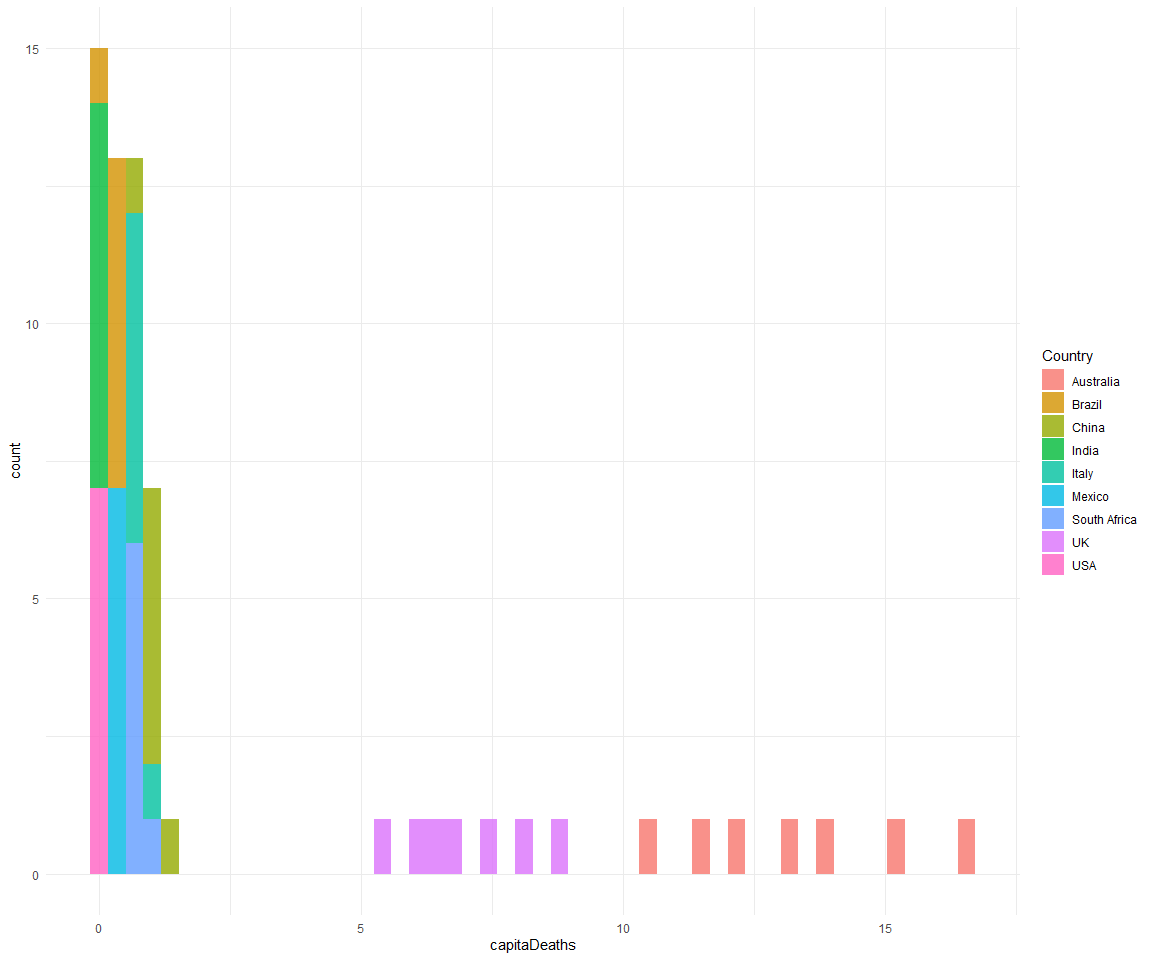
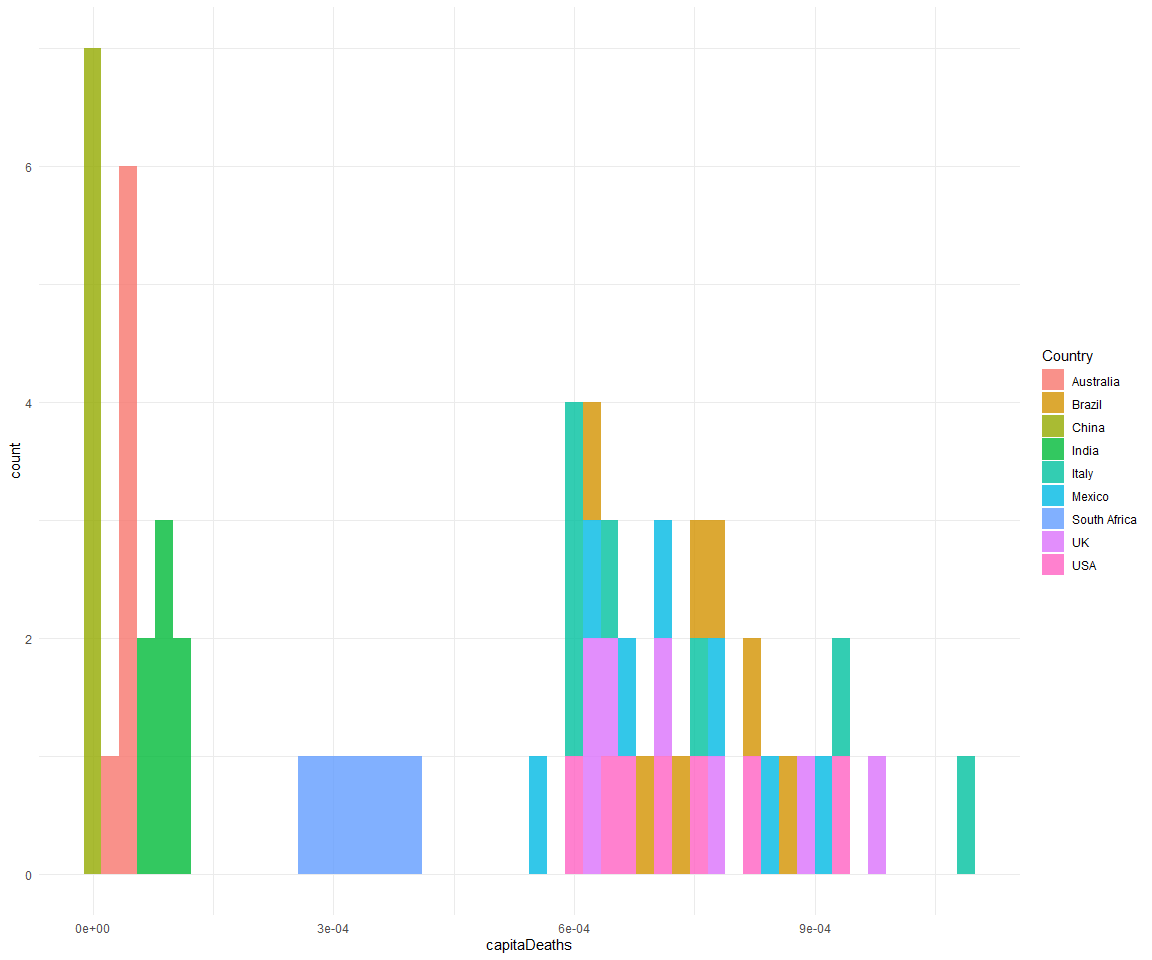
Fixed numbers!

diff --git a/R/README.md b/R/README.md
@@ -256,7 +256,15 @@ coun_res <- GET("https://corona.lmao.ninja/v2/historical?lastdays=100") # read i
 
 coun_data = fromJSON(rawToChar(coun_res$content)) # Convert json to tabular data
 
-countrylist <- c("USA", "South Africa", "Mexico", "UK", "Brazil", "Italy", "India", "China","Australia") # Countries to analyze
+countrylist <- c("USA", 
+                 "South Africa",
+                 "Mexico", 
+                 "UK", 
+                 "Brazil",
+                 "Italy",
+                 "India",
+                 "China",
+                 "Australia") # Countries to analyze
 
 # Index of countries
 index <- coun_data %>%
@@ -269,50 +277,70 @@ captdate <- c(paste(c(1:12), rep("1/20", times = 12), sep = "/"), # first day of
            paste(c(1:12), rep("15/20", times = 12), sep = "/")) %>%  # 15th day of month
   mdy()
 
+countries <- coun_data %>% 
+  filter(country %in% countrylist) %>%
+  pull(country)
 
+province <- coun_data %>% 
+  filter(country %in% countrylist) %>%
+  pull(province)
 
 cases <- coun_data$timeline$cases %>% 
   slice(index) %>% 
   gather() %>% 
-  rename(Date = key, Cases = value) %>% 
+  rename(Date = key,
+         Cases = value) %>% 
   mutate(Date = mdy(Date)) %>% 
   filter(Date %in% captdate)
+
+cases <- cases %>% 
+  mutate(Country = rep(countries, times = (nrow(cases)/length(index)))) %>% 
+  mutate(Province =  rep(province, times = (nrow(cases)/length(index))))
   
 
 deaths <- coun_data$timeline$deaths  %>% 
   slice(index) %>% 
   gather() %>% 
-  rename(Date = key, Deaths = value) %>% 
+  rename(Date = key,
+         Deaths = value) %>% 
   mutate(Date = mdy(Date)) %>% 
   filter(Date %in% captdate)
+
+deaths <- deaths %>% 
+  mutate(Country = rep(countries, times = (nrow(deaths)/length(index)))) %>% 
+  mutate(Country = rep(countries, times = (nrow(deaths)/length(index)))) %>% 
+  mutate(Province =  rep(province, times = (nrow(deaths)/length(index))))
+  
 
 recovered <- coun_data$timeline$recovered  %>% 
   slice(index) %>% 
   gather() %>% 
-  rename(Date = key, Recovered = value) %>% 
+  rename(Date = key,
+         Recovered = value) %>% 
   mutate(Date = mdy(Date)) %>% 
   filter(Date %in% captdate)
 
+recovered <- recovered %>% 
+  mutate(Country = rep(countries, times = (nrow(recovered)/length(index))))  %>% 
+  mutate(Country = rep(countries, times = (nrow(recovered)/length(index)))) %>% 
+  mutate(Province =  rep(province, times = (nrow(recovered)/length(index))))
+  
 total <- cases %>% 
-  left_join(deaths, by = "Date") %>% 
-  left_join(recovered, by = "Date")
+  left_join(deaths) %>% 
+  left_join(recovered)
 
 
 rm(cases, deaths, recovered)
 
-total <- total %>% 
-  mutate(Country = rep(coun_data %>%
-                         slice(index) %>% 
-                         pull(country), times = nrow(total)/length(index)),
-         Province = rep(coun_data %>%
-                          slice(index) %>% 
-                          pull(province), times = nrow(total)/length(index)))
+
+  
 
 # Collapse to obtain the total of Cases, Deaths and Recovered by Country
 
 total <- total %>% 
   group_by(Country, Date) %>% 
-  summarise(Cases = sum(Cases), Deaths = sum(Deaths), Recovered = sum(Recovered))
+  summarise(Cases = sum(Cases), Deaths = sum(Deaths), Recovered = sum(Recovered)) %>% 
+  ungroup()
 ```
 
 Read in world population data and estimate a per capita per selected
@@ -367,12 +395,12 @@ Summary stats
 
 ``` r
 sum_total <- total %>% 
-                ungroup(Date) %>% 
+                group_by(Country) %>% 
                 summarise(across(c(Cases, Deaths, Recovered), mean)) %>% 
                 rename_at(vars(-Country),function(x) paste0(x,"_mean")) %>% 
                 left_join(
                 total %>% 
-                  ungroup(Date) %>% 
+                  group_by(Country) %>% 
                   summarise(across(c(Cases, Deaths, Recovered), sd)) %>% 
                   rename_at(vars(-Country),function(x) paste0(x,"_sd"))
                 ) %>% 
@@ -384,15 +412,15 @@ sum_total
     ## # A tibble: 9 x 7
     ##   Country  Cases_mean Cases_sd Deaths_mean Deaths_sd Recovered_mean Recovered_sd
     ##   <chr>         <dbl>    <dbl>       <dbl>     <dbl>          <dbl>        <dbl>
-    ## 1 Austral~    1.28e10  3.61e 9  338284901.    5.29e7      84396993.     2377754.
-    ## 2 Brazil      1.60e 9  4.51e 8   42285613.    6.61e6   16751823734.  2803108527.
-    ## 3 China       5.29e10  1.49e10 1395425215.    2.18e8     290431901.     3543067.
-    ## 4 India       1.60e 9  4.51e 8   42285613.    6.61e6   23995743594.  6709286775.
-    ## 5 Italy       1.60e 9  4.51e 8   42285613.    6.61e6    1599651202.  1194942912.
-    ## 6 Mexico      1.60e 9  4.51e 8   42285613.    6.61e6    2504459074.   415915109.
-    ## 7 South A~    1.60e 9  4.51e 8   42285613.    6.61e6    2242978718.   223814094.
-    ## 8 UK          1.76e10  4.96e 9  465141738.    7.27e7       9982430.     2303514.
-    ## 9 USA         1.60e 9  4.51e 8   42285613.    6.61e6   10363627622.  5492666454.
+    ## 1 Austral~     27513      457.        893.     30.9          25088.         707.
+    ## 2 Brazil     5594909.  894725.     158964.  17083.         4979734.      833267.
+    ## 3 China        91783.    1519.       4742.      6.94         86335.        1053.
+    ## 4 India      7898756. 1757443.     118414.  22020.         7133099.     1994437.
+    ## 5 Italy       909763.  652590.      44885.  11880.          475521.      355215.
+    ## 6 Mexico      940741.  208996.      92477.  15517.          744488.      123637.
+    ## 7 South A~    738516.   75881.      19396.   2758.          666759.       66532.
+    ## 8 UK         1066786.  592767.      50059.   9077.            2967.         685.
+    ## 9 USA       10381720. 3732201.     239232.  37774.         3080745.     1632778.
 
 Per Capita Deaths
 
@@ -409,34 +437,16 @@ ggplot(total) +
 ## Make animation
 
 ``` r
-xlow <- total %>% 
-  pull(capitaCases) %>% 
-  min()
-
-xhigh <- total %>% 
-  pull(capitaCases) %>% 
-  max()
-
-ylow <- total %>% 
-  pull(capitaDeaths) %>% 
-  min()
-
-yhigh <- total %>% 
-  pull(capitaDeaths) %>% 
-  max()
-
 p <- ggplot(
   total, 
-  aes(x = capitaCases, y = capitaDeaths, color = Country)
+  aes(x = Cases, y = Deaths, color = Country)
   ) +
   geom_point(alpha = 0.7, size = 7, position = position_jitter(h=0.15,w=0.15)) +
   ggtitle("COVID Cases & Deaths in Last 100 Days")  +
   scale_color_brewer(palette = "Set3") +
   scale_size(range = c(2, 12)) +
-  xlim(xlow, xhigh) +
-  ylim(ylow, yhigh) +
   #scale_x_log10() +
-  labs(x = "Per Capita Cases", y = "Per Capita Deaths (Log-fold)") +
+  labs(x = "Cases (Daily Observed Number)", y = "Deaths(Daily Observed Number)") +
   geom_text(aes(label = Country), color = "black") +
   theme_classic() +
   theme(axis.text= element_text(size = 20, face = "bold"),
